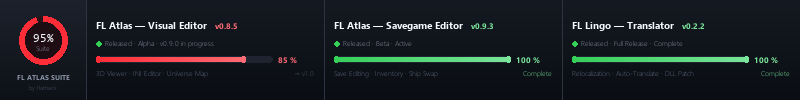
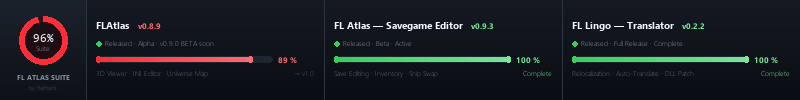
Refresh FLAtlas forum signature with splash artwork and beta preview

diff --git a/docs/forum-signature-progress.html b/docs/forum-signature-progress.html
@@ -334,21 +334,21 @@
 
       <div class="sig-content" style="font-family: 'Rajdhani', sans-serif;">
   <div class="gif-block" style="padding-top: 0; border-top: none;">
-    <div class="gif-label"><span>FL Atlas V2</span> progress (static):</div>
+    <div class="gif-label"><span>FLAtlas</span> v0.8.9 · v0.9.0 BETA coming soon (static):</div>
     <img class="gif-img" src="../assets/img/widgets/widget-flatlas-v2-progress.png"
-         alt="FL Atlas V2 progress signature" width="800" height="100">
+         alt="FLAtlas progress signature" width="800" height="100">
     <div class="bbcode-block gif-bbcode">
-      <div class="bbcode-label">BBCode (static image - FL Atlas V2):</div>
+      <div class="bbcode-label">BBCode (static image - FLAtlas):</div>
       <code class="bbcode-code">[url=https://www.moddb.com/games/freelancer/downloads][img]https://flathack.github.io/assets/img/widgets/widget-flatlas-v2-progress.png[/img][/url]</code>
     </div>
   </div>
 
   <div class="gif-block">
-    <div class="gif-label"><span>FL Atlas V2</span> progress (GIF):</div>
+    <div class="gif-label"><span>FLAtlas</span> v0.8.9 · v0.9.0 BETA coming soon (GIF):</div>
     <img class="gif-img" src="../assets/img/widgets/widget-animated-flatlas-v2-progress.gif"
-         alt="FL Atlas V2 animated progress signature" width="800" height="100">
+         alt="FLAtlas animated progress signature" width="800" height="100">
     <div class="bbcode-block gif-bbcode">
-      <div class="bbcode-label">BBCode (animated GIF - FL Atlas V2):</div>
+      <div class="bbcode-label">BBCode (animated GIF - FLAtlas):</div>
       <code class="bbcode-code">[url=https://www.moddb.com/games/freelancer/downloads][img]https://flathack.github.io/assets/img/widgets/widget-animated-flatlas-v2-progress.gif[/img][/url]</code>
     </div>
   </div>
@@ -373,13 +373,13 @@
     <!-- PROJECT 1: VISUAL EDITOR -->
     <div class="proj-col">
       <div class="proj-head">
-        <span class="proj-name">FL Atlas V2</span>
-        <span class="proj-version">v0.8.8</span>
+        <span class="proj-name">FLAtlas</span>
+        <span class="proj-version">v0.8.9</span>
       </div>
-      <div class="proj-status"><span class="dot dot-green"></span>Released · Alpha · v0.9.0 in progress</div>
+      <div class="proj-status"><span class="dot dot-green"></span>Released · Alpha · v0.9.0 BETA coming soon</div>
       <div class="proj-bar-wrap">
-        <div class="proj-bar"><span style="width: 88%;"></span></div>
-        <span class="proj-pct">88 %</span>
+        <div class="proj-bar"><span style="width: 89%;"></span></div>
+        <span class="proj-pct">89 %</span>
       </div>
       <div class="proj-detail">
         <span>3D Viewer · INI Editor · Universe Map</span>

diff --git a/assets/img/widgets/make_flatlas_v2_sig.py b/assets/img/widgets/make_flatlas_v2_sig.py
@@ -1,223 +1,122 @@
 #!/usr/bin/env python3
-"""Generate modern flat FL Atlas V2 forum signatures."""
+"""Generate FLAtlas signatures from the blue splash art, keeping existing forum URLs."""
 
 from __future__ import annotations
 
 import math
 from pathlib import Path
 
-from PIL import Image, ImageDraw, ImageEnhance, ImageFilter, ImageFont
-
+from PIL import Image, ImageDraw, ImageFilter, ImageFont
 
 W, H = 800, 100
 SCALE = 3
 SW, SH = W * SCALE, H * SCALE
-BASE = Path(__file__).parent / "flatlas-v2-signature-bg.png"
+BASE = Path(__file__).parent / "flatlas-signature-splash.png"
 OUT = Path(__file__).parent / "widget-flatlas-v2-progress.png"
 OUT_GIF = Path(__file__).parent / "widget-animated-flatlas-v2-progress.gif"
-FPS = 12
-DURATION_S = 3
+FPS = 15
+DURATION_S = 4
 TOTAL_FRAMES = FPS * DURATION_S
-
-TEXT = (237, 247, 255)
-MUTED = (132, 174, 210)
-DIM = (82, 119, 154)
-CYAN = (74, 197, 255)
-CYAN_SOFT = (112, 222, 255)
-GREEN = (77, 230, 151)
-RED = (255, 94, 124)
-GOLD = (255, 211, 104)
-
-MILESTONES = [
-    {"version": "v0.8.8", "label": "released", "pct": 88, "state": "done"},
-    {"version": "v0.9.0", "label": "in progress", "pct": 90, "state": "active"},
-    {"version": "v1.0.0", "label": "final", "pct": 100, "state": "final"},
-]
+TEXT = (230, 245, 255)
+MUTED = (140, 182, 211)
+CYAN = (66, 207, 255)
 
 
-def load_font(names: list[str], size: int) -> ImageFont.ImageFont:
-    for name in names:
-        try:
-            return ImageFont.truetype(name, size * SCALE)
-        except OSError:
-            continue
-    return ImageFont.load_default()
-
-
-FONT_BRAND = load_font(["segoeuib.ttf", "arialbd.ttf"], 18)
-FONT_LABEL = load_font(["segoeui.ttf", "arial.ttf"], 8)
-FONT_LABEL_BOLD = load_font(["segoeuib.ttf", "arialbd.ttf"], 8)
-FONT_BODY = load_font(["segoeui.ttf", "arial.ttf"], 10)
-FONT_MONO = load_font(["consolab.ttf", "consola.ttf", "arialbd.ttf"], 12)
-FONT_BIG = load_font(["consolab.ttf", "arialbd.ttf"], 21)
-
-
-def sc(value: int | float) -> int:
+def sc(value: float) -> int:
     return round(value * SCALE)
 
 
-def rgba(color: tuple[int, int, int], alpha: int) -> tuple[int, int, int, int]:
-    return color + (alpha,)
+def load_font(size: int, bold: bool = False) -> ImageFont.ImageFont:
+    names = ["bahnschrift.ttf", "segoeuib.ttf" if bold else "segoeui.ttf", "DejaVuSans.ttf"]
+    for name in names:
+        try:
+            return ImageFont.truetype(name, sc(size))
+        except OSError:
+            continue
+    return ImageFont.load_default(size=sc(size))
 
 
-def lerp(a: tuple[int, int, int], b: tuple[int, int, int], t: float) -> tuple[int, int, int]:
-    t = max(0.0, min(1.0, t))
-    return tuple(round(x + (y - x) * t) for x, y in zip(a, b))
+FONT_LABEL = load_font(9)
+FONT_VERSION = load_font(25, bold=True)
+FONT_BETA = load_font(11, bold=True)
 
 
-def text_size(draw: ImageDraw.ImageDraw, text: str, font: ImageFont.ImageFont) -> tuple[int, int]:
-    box = draw.textbbox((0, 0), text, font=font)
-    return box[2] - box[0], box[3] - box[1]
+def text(draw: ImageDraw.ImageDraw, xy, value, font, fill) -> None:
+    draw.text((sc(xy[0]), sc(xy[1])), value, font=font, fill=fill, anchor="lt")
 
 
-def rounded(draw: ImageDraw.ImageDraw, box: list[int], radius: int, fill, outline=None, width: int = 1) -> None:
-    draw.rounded_rectangle([sc(v) for v in box], radius=sc(radius), fill=fill, outline=outline, width=sc(width))
-
-
-def text(draw: ImageDraw.ImageDraw, xy: tuple[int, int], value: str, font: ImageFont.ImageFont, fill) -> None:
-    draw.text((sc(xy[0]), sc(xy[1])), value, font=font, fill=fill)
-
-
-def make_background(phase: float) -> Image.Image:
-    src = Image.open(BASE).convert("RGB")
-    src_ratio = src.width / src.height
-    target_ratio = W / H
-    if src_ratio > target_ratio:
-      crop_h = src.height
-      crop_w = round(crop_h * target_ratio)
-      # Keep the planet glow on the right, with calm negative space on the left.
-      left = min(src.width - crop_w, round(src.width * 0.25))
-      top = 0
-    else:
-      crop_w = src.width
-      crop_h = round(crop_w / target_ratio)
-      left = 0
-      top = max(0, round(src.height * 0.34) - crop_h // 2)
-    crop = src.crop((left, top, left + crop_w, top + crop_h))
-    bg = crop.resize((SW, SH), Image.LANCZOS)
-    bg = ImageEnhance.Color(bg).enhance(0.92)
-    bg = ImageEnhance.Contrast(bg).enhance(0.92)
-    bg = bg.filter(ImageFilter.GaussianBlur(sc(0.45)))
-
-    overlay = Image.new("RGBA", (SW, SH), (0, 0, 0, 0))
-    draw = ImageDraw.Draw(overlay)
+def make_background() -> Image.Image:
+    source = Image.open(BASE).convert("RGB")
+    # Separate crops preserve the wordmark and ship in the narrow forum format.
+    image = Image.new("RGBA", (SW, SH), (1, 8, 16, 255))
+    stars = source.crop((0, 0, 1000, 250)).resize((SW, SH), Image.Resampling.LANCZOS)
+    image.alpha_composite(stars.convert("RGBA"))
+    art = source.crop((920, 250, 2098, 750)).resize((sc(236), SH), Image.Resampling.LANCZOS)
+    image.alpha_composite(art.convert("RGBA"), (sc(564), 0))
+    shade = Image.new("RGBA", image.size)
+    draw = ImageDraw.Draw(shade)
     for x in range(SW):
-        t = x / max(1, SW - 1)
-        shade = int(150 - 54 * t)
-        draw.line([(x, 0), (x, SH)], fill=(0, 8, 19, shade))
-    draw.rectangle([0, 0, SW, SH], fill=(2, 11, 25, 74))
+        alpha = round(215 * max(0.0, 1.0 - max(0, x / SCALE - 475) / 155))
+        draw.line((x, 0, x, SH), fill=(0, 7, 15, alpha))
+    image = Image.alpha_composite(image, shade)
 
-    # A very restrained sweep in the animated variant.
-    sweep_x = round((phase % 1) * SW)
-    for x in range(max(0, sweep_x - sc(18)), min(SW, sweep_x + sc(18))):
-        strength = int((1 - abs(x - sweep_x) / sc(18)) * 22)
-        draw.line([(x, 0), (x, SH)], fill=(82, 202, 255, strength))
-
-    # Thin flat brand line inspired by the splash screen.
-    draw.line([(0, SH - sc(2)), (SW, SH - sc(2))], fill=(30, 148, 230, 155), width=sc(1))
-    return Image.alpha_composite(bg.convert("RGBA"), overlay)
+    logo = source.crop((135, 280, 910, 490)).resize((sc(238), sc(64.5)), Image.Resampling.LANCZOS)
+    mask = Image.new("L", logo.size, 255)
+    md = ImageDraw.Draw(mask)
+    for i in range(sc(8)):
+        md.rectangle((i, i, logo.width - i - 1, logo.height - i - 1), outline=round(i / sc(8) * 255))
+    image.paste(logo, (sc(17), sc(17)), mask)
+    return image
 
 
-def draw_brand(draw: ImageDraw.ImageDraw) -> None:
-    draw.rectangle([sc(18), sc(19), sc(21), sc(80)], fill=rgba(CYAN, 230))
-    text(draw, (32, 18), "FL ATLAS V2", FONT_BRAND, TEXT)
-    text(draw, (33, 41), "current", FONT_LABEL_BOLD, rgba(MUTED, 245))
-    text(draw, (33, 55), "v0.8.8", FONT_MONO, rgba(GREEN, 255))
-    rounded(draw, [112, 51, 176, 70], 3, (9, 52, 43, 202), (84, 230, 155, 150))
-    tw, th = text_size(draw, "RELEASED", FONT_LABEL_BOLD)
-    draw.text((sc(144) - tw // 2, sc(56)), "RELEASED", font=FONT_LABEL_BOLD, fill=rgba(GREEN, 255))
-
-
-def draw_progress(draw: ImageDraw.ImageDraw, phase: float) -> None:
-    panel = Image.new("RGBA", (SW, SH), (0, 0, 0, 0))
-    pd = ImageDraw.Draw(panel)
-    rounded(pd, [196, 15, 653, 84], 7, (2, 13, 29, 166), (74, 197, 255, 70))
-    panel = panel.filter(ImageFilter.GaussianBlur(sc(0.2)))
-    draw._image.alpha_composite(panel)
-
-    text(draw, (216, 19), "ROAD TO v1.0.0", FONT_LABEL_BOLD, rgba(CYAN_SOFT, 245))
-    text(draw, (216, 34), "v0.9.0 in progress after v0.8.8 release", FONT_BODY, rgba(MUTED, 235))
-
-    x0, y0 = 216, 60
-    bar_w, bar_h = 412, 7
-    rounded(draw, [x0, y0, x0 + bar_w, y0 + bar_h], 4, (8, 28, 49, 235), (80, 156, 214, 120))
-
-    released_w = round(bar_w * 0.88)
-    active_w = round(bar_w * 0.90)
-    for x in range(sc(x0), sc(x0 + released_w)):
-        c = lerp((35, 161, 136), GREEN, (x - sc(x0)) / max(1, sc(released_w)))
-        draw.line([(x, sc(y0 + 1)), (x, sc(y0 + bar_h - 1))], fill=rgba(c, 255), width=1)
-    for x in range(sc(x0 + released_w), sc(x0 + active_w)):
-        c = lerp(CYAN, RED, (x - sc(x0 + released_w)) / max(1, sc(active_w - released_w)))
-        draw.line([(x, sc(y0 + 1)), (x, sc(y0 + bar_h - 1))], fill=rgba(c, 255), width=1)
-
-    shimmer = sc(x0 + released_w) + round(sc(active_w - released_w) * phase)
-    for x in range(max(sc(x0 + released_w), shimmer - sc(8)), min(sc(x0 + active_w), shimmer + sc(8))):
-        amount = 1 - abs(x - shimmer) / max(1, sc(8))
-        draw.line([(x, sc(y0 + 1)), (x, sc(y0 + bar_h - 1))], fill=rgba(lerp(RED, TEXT, amount * 0.6), 230), width=1)
-
-    for item in MILESTONES:
-        x = x0 + round(bar_w * item["pct"] / 100)
-        color = {"done": GREEN, "active": RED, "next": MUTED, "final": GOLD}[item["state"]]
-        r = 5 if item["state"] in {"active", "final", "done"} else 4
-        if item["state"] == "active":
-            pulse = 0.5 + 0.5 * math.sin(phase * math.tau)
-            draw.ellipse([sc(x - 12 - pulse * 2), sc(y0 - 11 - pulse * 2), sc(x + 12 + pulse * 2), sc(y0 + 18 + pulse * 2)], outline=rgba(RED, 110), width=sc(1))
-        draw.ellipse([sc(x - r), sc(y0 + bar_h / 2 - r), sc(x + r), sc(y0 + bar_h / 2 + r)], fill=rgba(color, 255), outline=rgba(TEXT, 210), width=sc(1))
-        vy = 72 if item["state"] != "active" else 44
-        tw, _ = text_size(draw, item["version"], FONT_LABEL_BOLD)
-        draw.text((sc(x) - tw // 2, sc(vy)), item["version"], font=FONT_LABEL_BOLD, fill=rgba(color, 255))
-        lw, _ = text_size(draw, item["label"], FONT_LABEL)
-        draw.text((sc(x) - lw // 2, sc(vy + 10)), item["label"], font=FONT_LABEL, fill=rgba(DIM, 245))
-
-
-def draw_target(draw: ImageDraw.ImageDraw, phase: float) -> None:
-    rounded(draw, [675, 15, 782, 84], 7, (2, 13, 29, 174), (74, 197, 255, 92))
-    text(draw, (690, 23), "TARGET", FONT_LABEL_BOLD, rgba(MUTED, 245))
-    text(draw, (690, 38), "v1.0.0", FONT_BIG, rgba(GOLD, 255))
-    text(draw, (691, 62), "FINAL RELEASE", FONT_LABEL_BOLD, rgba((255, 225, 144), 255))
-    draw.line([(sc(690), sc(77)), (sc(762), sc(77))], fill=rgba((55, 119, 174), 210), width=sc(2))
-    draw.line([(sc(690), sc(77)), (sc(748), sc(77))], fill=rgba(CYAN, 230), width=sc(2))
-    scan = sc(690) + round(sc(58) * phase)
-    draw.line([(scan, sc(73)), (scan, sc(81))], fill=rgba(TEXT, 210), width=sc(1))
+BACKGROUND = make_background()
 
 
 def render_frame(phase: float = 0.0) -> Image.Image:
-    img = make_background(phase)
-    draw = ImageDraw.Draw(img, "RGBA")
-    draw_brand(draw)
-    draw_progress(draw, phase)
-    draw_target(draw, phase)
-    draw.rectangle([0, 0, SW - 1, SH - 1], outline=rgba((56, 158, 238), 180), width=sc(1))
-    return img.resize((W, H), Image.Resampling.LANCZOS).convert("RGB")
+    image = BACKGROUND.copy()
+    draw = ImageDraw.Draw(image)
+    draw.line((sc(273), sc(19), sc(273), sc(75)), fill=(44, 112, 150, 150), width=sc(0.6))
+    text(draw, (291, 20), "CURRENT RELEASE", FONT_LABEL, MUTED)
+    text(draw, (290, 38), "v0.8.9", FONT_VERSION, TEXT)
+    text(draw, (292, 68), "AVAILABLE NOW", FONT_LABEL, (130, 213, 240))
+    text(draw, (433, 20), "COMING SOON", FONT_LABEL, MUTED)
+    text(draw, (431, 38), "v0.9.0", FONT_VERSION, TEXT)
+    draw.polygon([(sc(x), sc(y)) for x, y in [(531, 40), (565, 40), (570, 45), (570, 58), (536, 58), (531, 53)]],
+                 fill=(6, 37, 57), outline=CYAN, width=sc(0.6))
+    text(draw, (536, 44), "BETA", FONT_BETA, (144, 231, 255))
+    text(draw, (433, 68), "ALPHA TO BETA", FONT_LABEL, (130, 213, 240))
 
-
-def save_static() -> None:
-    img = render_frame(0.0)
-    img.save(OUT, optimize=True)
-    print(f"Saved {OUT.name} ({W}x{H}, {OUT.stat().st_size // 1024} KB)")
-
-
-def save_gif() -> None:
-    frames = []
-    for idx in range(TOTAL_FRAMES):
-        if idx % 2:
-            continue
-        frames.append(render_frame(idx / TOTAL_FRAMES).quantize(colors=96))
-    frames[0].save(
-        OUT_GIF,
-        save_all=True,
-        append_images=frames[1:],
-        duration=83,
-        loop=0,
-        optimize=True,
-    )
-    print(f"Saved {OUT_GIF.name} ({W}x{H}, {OUT_GIF.stat().st_size // 1024} KB)")
+    # A looping highlight echoes the splash bar without inventing a percentage.
+    glow = Image.new("RGBA", image.size)
+    gd = ImageDraw.Draw(glow)
+    for index in range(36):
+        x = 291 + index * 7.7
+        distance = abs(index / 36 - phase)
+        distance = min(distance, 1 - distance)
+        strength = math.exp(-((distance / 0.09) ** 2))
+        color = (round(20 + 93 * strength), round(90 + 147 * strength), round(130 + 125 * strength), 255)
+        box = (sc(x), sc(85), sc(x + 5.3), sc(87))
+        draw.rectangle(box, fill=color)
+        gd.rectangle(box, fill=(55, 202, 255, round(160 * strength)))
+    image = Image.alpha_composite(image, glow.filter(ImageFilter.GaussianBlur(sc(1.6))))
+    draw = ImageDraw.Draw(image)
+    draw.line((sc(15), sc(98), sc(785), sc(98)), fill=(19, 102, 148, 210), width=sc(0.5))
+    draw.rectangle((0, 0, SW - 1, SH - 1), outline=(32, 107, 153, 220), width=sc(0.6))
+    return image.convert("RGB").resize((W, H), Image.Resampling.LANCZOS)
 
 
 def main() -> None:
-    save_static()
-    save_gif()
+    render_frame(0.25).save(OUT, optimize=True)
+    frames = [render_frame(index / TOTAL_FRAMES) for index in range(TOTAL_FRAMES)]
+    # A shared palette keeps the stationary artwork from flickering.
+    palette = frames[TOTAL_FRAMES // 4].quantize(colors=256)
+    frames = [frame.quantize(palette=palette, dither=Image.Dither.NONE) for frame in frames]
+    # GIF delays use 10 ms units: 60/70/70 ms gives exactly 15 fps.
+    delays = [60 if index % 3 == 0 else 70 for index in range(TOTAL_FRAMES)]
+    frames[0].save(OUT_GIF, save_all=True, append_images=frames[1:], duration=delays,
+                   loop=0, optimize=True, disposal=1)
+    for output in (OUT, OUT_GIF):
+        print(f"Saved {output.name} ({W}x{H}, {output.stat().st_size // 1024} KB)")
 
 
 if __name__ == "__main__":

diff --git a/assets/img/widgets/make_sig_gif.py b/assets/img/widgets/make_sig_gif.py
@@ -48,12 +48,12 @@ BAR_PAD_X = 10   # left/right padding inside each project column
 # ---------------------------------------------------------------------------
 PROJECTS = [
     {
-        "name":    "FL Atlas — Visual Editor",
-        "version": "v0.8.8",
-        "status":  "Released · Alpha · v0.9.0 in progress",
+        "name":    "FLAtlas",
+        "version": "v0.8.9",
+        "status":  "Released · Alpha · v0.9.0 BETA soon",
         "detail":  "3D Viewer · INI Editor · Universe Map",
         "target":  "→ v1.0",
-        "pct":     88,
+        "pct":     89,
         "dot":     "green",
         "theme":   "red",
     },
